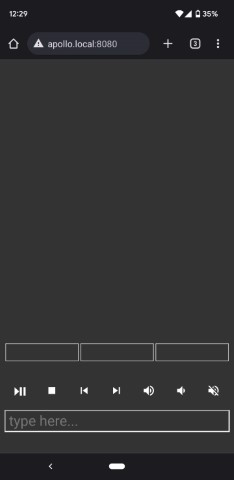
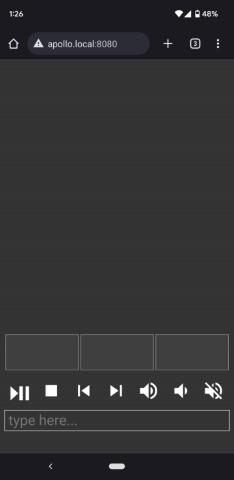
UI colors, usability

diff --git a/www/km.htm b/www/km.htm
@@ -104,11 +104,12 @@ textArea.onkeydown = (e) => {
   else if (e.key === "Enter") {
     if (textArea.value.length === 0) {
       postData("/keys", "{ENTER}");
-    } else {
+    }
+    else {
       postData("/keys", textArea.value);
+      textArea.value = "";
     }
   }
-  textArea.value = "";
 };
 
 setListener($(".mouse"), "touchstart mousedown", (e) => {
@@ -140,10 +141,13 @@ setListener($(".media"), "click", (e) => {
 </script>
 <style>
 
+/* * { border: 1px solid red; } */
+
+.material-icons { font-size: 40px; }
+
 body, html {
   color: #fff;
   background-color: #333;
-  font-size: 25px;
 }
 
 #touch-area {
@@ -157,39 +161,36 @@ body, html {
 }
 
 #button-area > div {
-  border: 1px;
-  border-color: #fff;
-  border-style: solid;
   width: 32%;
+  height: 90%;
+  background-color: #3f3f3f;
+  border: 1px solid #a1a1a1;
 }
 
 #text-area {
   width: 100%;
+  font-size: 25px;
   color: inherit;
-  font-size: inherit; 
   background-color: inherit;
-  border-color: #fff;
+  border: 1px solid #fff;
   padding: 3px 6px;
 }
 
 #media-area {
+  width: 100%;
+  height: 10%;
   display: inline-flex;
   flex-wrap: nowrap;
   text-align: center;
-  width: 100%;
-  height: 10%;
-}
-
-#media-area > * {
-  line-height: 10%;
+  font-size: 42px;
 }
 
 .flex-spread-horz {
+  width: 100%;
   display: flex;
   justify-content: space-around;
   align-items: center;
   flex-wrap: wrap;
-  width: 100%;
   flex: 1;
 }
 </style>

diff --git a/HttpKeyboardMouse/HttpServer.cs b/HttpKeyboardMouse/HttpServer.cs
@@ -67,8 +67,6 @@ namespace WinFormsApp1
             }
         }
 
-
-
         private void ParseRequest(HttpListenerRequest request, HttpListenerContext context)
         {
             HttpListenerResponse response = context.Response;
@@ -121,6 +119,7 @@ namespace WinFormsApp1
             {
                 case "/mouse":
                     HandleMouse(bodyContent);
+                    // don't spam swipe messages
                     if (bodyContent.StartsWith("left") || bodyContent.StartsWith("right") || bodyContent.StartsWith("middle")) 
                     {
                         Trace.WriteLine($"{request.RemoteEndPoint} used mouse: {bodyContent}");
